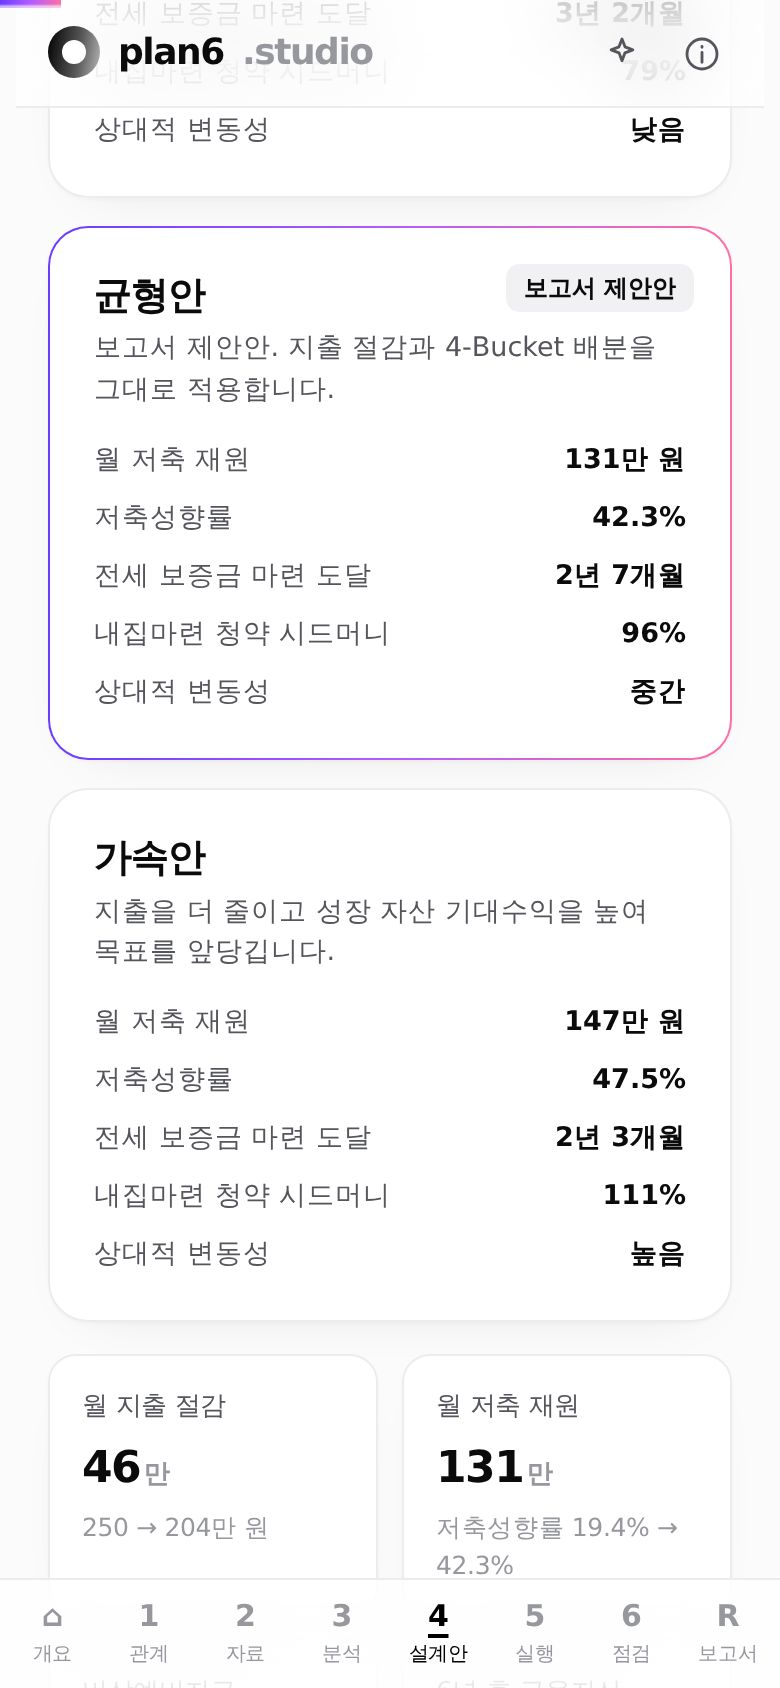
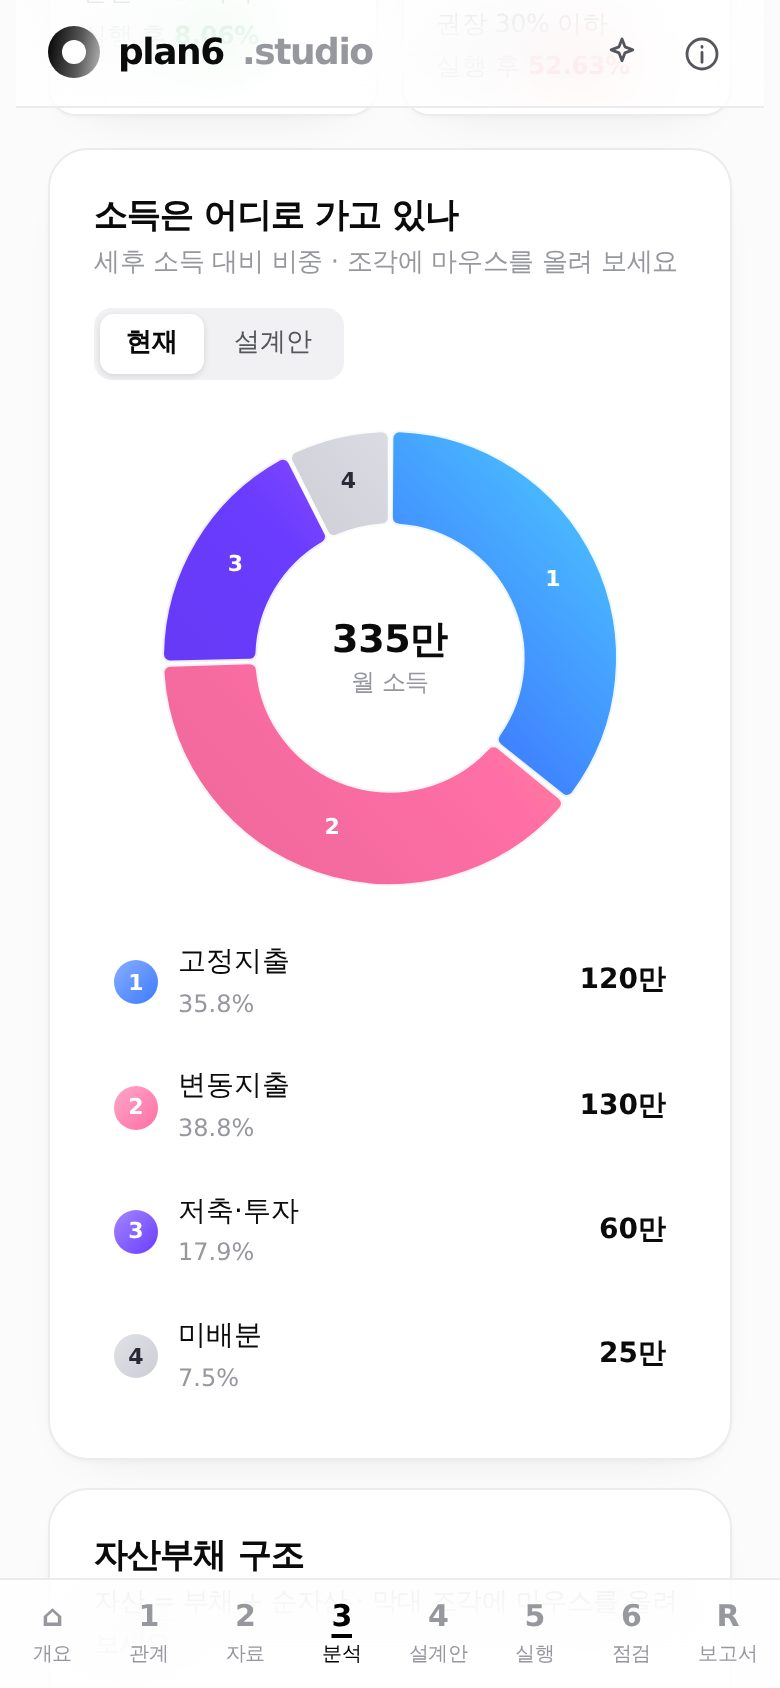
Solid legend swatches; refined hero mockup with browser chrome, sheen and phone island
Claude-Session: https://claude.ai/code/session_01Bv7YA2FHPYNtYdmzqAHzBM

diff --git a/index.html b/index.html
@@ -734,6 +734,30 @@ input[type=range]::-moz-range-thumb{border-color:#6a3cff}
 .vhead.banner.rv.shown{transform:none}
 @media (prefers-reduced-motion:reduce){.rv{opacity:1!important;transform:none!important;transition:none}}
 
+/* ===== v7: refined hero mockup (browser chrome, glass sheen, fade-out, phone with island) ===== */
+.hx-device{left:6%;right:6%;padding:0;border-radius:16px;background:#0e0e11;border:1px solid rgba(255,255,255,.14);overflow:hidden;-webkit-mask:linear-gradient(#000 62%,transparent 98%);mask:linear-gradient(#000 62%,transparent 98%);box-shadow:0 0 0 6px rgba(255,255,255,.03),0 -24px 90px -10px rgba(120,80,255,.40),0 50px 100px -30px rgba(0,0,0,.9)}
+.hx-device:before{display:none}
+.hx-device:after{content:"";position:absolute;inset:0;pointer-events:none;background:linear-gradient(115deg,rgba(255,255,255,.10) 0%,rgba(255,255,255,0) 28%,rgba(255,255,255,0) 70%,rgba(255,255,255,.04) 100%)}
+.hx-bar{display:flex;align-items:center;gap:7px;height:34px;padding:0 14px;background:linear-gradient(#1a1a1e,#121215);border-bottom:1px solid rgba(255,255,255,.07);position:relative}
+.hx-bar i{width:10px;height:10px;border-radius:50%;background:#3a3a40}
+.hx-bar span{position:absolute;left:50%;transform:translateX(-50%);display:flex;align-items:center;gap:6px;font-size:11px;color:rgba(255,255,255,.55);background:rgba(255,255,255,.06);border:1px solid rgba(255,255,255,.06);padding:3px 14px;border-radius:7px;white-space:nowrap}
+.hx-bar svg{width:11px;height:11px}
+.hx-screen{position:relative}
+.hx-screen img{display:block;width:100%;border-radius:0}
+.hx-phone{padding:7px;border-radius:30px;background:linear-gradient(145deg,#2a2a30,#0b0b0d);border:1px solid rgba(255,255,255,.18);box-shadow:inset 0 0 0 1.5px #000,0 0 0 1px rgba(0,0,0,.6),0 40px 80px -20px rgba(0,0,0,.9),0 0 60px -10px rgba(178,92,255,.35);overflow:hidden}
+.hx-phone img{border-radius:23px}
+.hx-phone .island{position:absolute;top:13px;left:50%;transform:translateX(-50%);width:30%;height:13px;border-radius:99px;background:#000;z-index:2}
+.hx-phone:after{content:"";position:absolute;inset:7px;border-radius:23px;pointer-events:none;background:linear-gradient(120deg,rgba(255,255,255,.14),rgba(255,255,255,0) 35%)}
+.fchip{flex-direction:row;align-items:center;gap:10px;padding:10px 14px 10px 10px;border-radius:16px;background:rgba(14,14,17,.62);border:1px solid rgba(255,255,255,.12);backdrop-filter:blur(18px) saturate(180%);-webkit-backdrop-filter:blur(18px) saturate(180%);box-shadow:inset 0 1px 0 rgba(255,255,255,.08),0 24px 50px -18px rgba(0,0,0,.85)}
+.fchip>div{display:flex;flex-direction:column}
+.fchip .fi{width:32px;height:32px;border-radius:10px;display:grid;place-items:center;font-size:15px;font-weight:800;color:#fff;background:linear-gradient(135deg,#6a3cff,#ff6fa5);box-shadow:0 6px 16px -6px rgba(106,60,255,.8);flex:none}
+.fchip small{font-size:11px;letter-spacing:.01em}
+.fchip b{font-size:16px}
+.fchip.f1{left:1%;top:34%}
+.fchip.f2{left:auto;right:17%;top:3%}
+.fchip.f3{left:9%;top:66%}
+@media (max-width:600px){.fchip .fi{width:26px;height:26px;font-size:12px;border-radius:8px}.fchip b{font-size:13px}.hx-bar{height:24px}.hx-bar span{display:none}.hx-bar i{width:7px;height:7px}.hx-phone{border-radius:20px;padding:4px}.hx-phone img{border-radius:16px}.hx-phone .island{top:8px;height:8px}}
+
 @media print{
   @page{size:A4;margin:14mm 12mm}
   .side,.top,.btab,.fab,.drawer,.toast,.modal-bg,.noprint,.foot{display:none!important}
@@ -804,11 +828,11 @@ input[type=range]::-moz-range-thumb{border-color:#6a3cff}
     </div>
     <div class="hx-vis" id="hxVis" aria-hidden="true">
       <div class="hx-stage" id="hxStage">
-        <div class="hx-device"><img src="assets/shot-desk.jpg" alt="" onerror="this.outerHTML='&lt;div class=&quot;ph&quot;&gt;&lt;/div&gt;'"></div>
-        <div class="hx-phone"><img src="assets/shot-mob.jpg" alt="" onerror="this.parentNode.style.display='none'"></div>
-        <div class="fchip f1"><small>월 저축</small><b id="fc1"></b></div>
-        <div class="fchip f2"><small>비상예비자금</small><b id="fc2"></b></div>
-        <div class="fchip f3"><small>6년 후 금융자산</small><b id="fc3"></b></div>
+        <div class="hx-device"><div class="hx-bar"><i></i><i></i><i></i><span><svg viewBox="0 0 24 24" fill="none" stroke="currentColor" stroke-width="2"><rect x="5" y="11" width="14" height="10" rx="2"/><path d="M8 11V8a4 4 0 018 0v3"/></svg>afpk-finance-studio.github.io</span></div><div class="hx-screen"><img src="assets/shot-desk.jpg" alt="" onerror="this.outerHTML='&lt;div class=&quot;ph&quot;&gt;&lt;/div&gt;'"></div></div>
+        <div class="hx-phone"><span class="island"></span><img src="assets/shot-mob.jpg" alt="" onerror="this.parentNode.style.display='none'"></div>
+        <div class="fchip f1"><span class="fi">₩</span><div><small>월 저축</small><b id="fc1"></b></div></div>
+        <div class="fchip f2"><span class="fi">◎</span><div><small>비상예비자금</small><b id="fc2"></b></div></div>
+        <div class="fchip f3"><span class="fi">↗</span><div><small>6년 후 금융자산</small><b id="fc3"></b></div></div>
       </div>
     </div>
   </div>
@@ -1216,7 +1240,13 @@ const mlabel=m=>m==null?"-":m===Infinity?"기간 내 미달":m===0?"즉시":m<12
 
 /* ---------- charts ---------- */
 const charts={};
-function chart(id,cfg){if(typeof Chart==="undefined"){const el=document.getElementById(id);if(el&&!el.dataset.fb){el.dataset.fb=1;el.parentElement.insertAdjacentHTML("beforeend",'<p class="note">그래프 라이브러리를 불러오지 못했습니다. 인터넷 연결을 확인하세요.</p>')}return}
+const swatch=x=>typeof x==="string"?x:(x&&x._c)||null;
+const okC=c=>c&&!/^(#fff|#ffffff|rgba\(255,\s*255,\s*255)/i.test(c);
+function dsColor(ds,i){if(!ds)return "#999";const cands=[ds.type==="line"&&typeof ds.pointBorderColor==="string"&&ds.pointBorderWidth>=3?ds.pointBorderColor:null,ds._base&&ds._base[i],Array.isArray(ds.backgroundColor)?ds.backgroundColor[i]:null,ds.fill===false||ds.type==="line"&&!ds.fill?swatch(ds.borderColor):null,swatch(ds.backgroundColor),swatch(ds.borderColor)];for(const c of cands){const v=swatch(c);if(okC(v)&&!/rgba\(.*,\s*0?\.[0-3]\d*\)$/.test(v))return v}for(const c of cands){const v=swatch(c);if(okC(v))return v}return "#999"}
+function solidSw(cfg){const o=cfg.options=cfg.options||{},p=o.plugins=o.plugins||{};const lg=p.legend;
+  if(lg&&lg.display!==false){lg.labels=Object.assign({},lg.labels,{usePointStyle:true,pointStyle:"rectRounded",boxWidth:10,boxHeight:10,generateLabels:ch=>Chart.defaults.plugins.legend.labels.generateLabels(ch).map(l=>{const ds=ch.data.datasets[l.datasetIndex];const c=dsColor(ds,l.index);return Object.assign(l,{fillStyle:c,strokeStyle:c,lineWidth:0,pointStyle:"rectRounded",lineDash:[]})})})}
+  if(p.tooltip){p.tooltip.callbacks=Object.assign({},p.tooltip.callbacks,{labelColor:ctx=>{const c=dsColor(ctx.dataset,ctx.dataIndex);return {borderColor:c,backgroundColor:c,borderWidth:0,borderRadius:3}},labelPointStyle:()=>({pointStyle:"rectRounded",rotation:0})})}}
+function chart(id,cfg){if(typeof Chart!=="undefined")solidSw(cfg);if(typeof Chart==="undefined"){const el=document.getElementById(id);if(el&&!el.dataset.fb){el.dataset.fb=1;el.parentElement.insertAdjacentHTML("beforeend",'<p class="note">그래프 라이브러리를 불러오지 못했습니다. 인터넷 연결을 확인하세요.</p>')}return}
   const cv=document.getElementById(id);
   if(waiting[id]){waiting[id]=cfg;return}
   if(charts[id]){charts[id].data=cfg.data;charts[id].options=cfg.options;charts[id].update(cv.offsetParent?undefined:"none");return}
@@ -1235,10 +1265,10 @@ const mixW=(h,a)=>{h=String(h).replace("#","");if(!/^[0-9a-f]{6}$/i.test(h))retu
 const mixK=(h,a)=>{h=String(h).replace("#","");if(!/^[0-9a-f]{6}$/i.test(h))return h;const v=parseInt(h,16),f=x=>Math.round(x*(1-a));return `rgb(${f(v>>16&255)},${f(v>>8&255)},${f(v&255)})`};
 const PAL2={"#6a3cff":"#d46bff","#b25cff":"#ff7ab8","#ff6fa5":"#ffb37a","#3e7bff":"#4fd6ff","#cdced6":"#eeeef3","#2d2d35":"#6a6a78","#15c39a":"#9be86a"};const p2=cl=>PAL2[String(cl).toLowerCase()]||mixW(cl,.35);
 const segFill=cols=>ctx=>{const cl=cols[ctx.dataIndex%cols.length],ar=ctx.chart.chartArea;if(!ar)return cl;const g=ctx.chart.ctx.createLinearGradient(ar.left,ar.bottom,ar.right,ar.top);g.addColorStop(0,mixK(cl,.08));g.addColorStop(.5,cl);g.addColorStop(1,p2(cl));return g};
-const barFill=cl=>grad(p2(cl),mixK(cl,.05));
+const barFill=cl=>{const f=grad(p2(cl),mixK(cl,.05));f._c=cl;return f};
 const hexA=(h,a)=>{h=String(h).replace("#","");if(h.length===3)h=h.split("").map(x=>x+x).join("");const v=parseInt(h,16);return `rgba(${v>>16&255},${v>>8&255},${v&255},${a})`};
 const lum=h=>{h=String(h).replace("#","");if(!/^[0-9a-f]{6}$/i.test(h))return 0;const v=parseInt(h,16);return ((v>>16&255)*.299+(v>>8&255)*.587+(v&255)*.114)/255};
-function grad(a,b,horiz){return ctx=>{const ch=ctx.chart,ar=ch.chartArea;if(!ar)return a;const g=horiz?ch.ctx.createLinearGradient(ar.left,0,ar.right,0):ch.ctx.createLinearGradient(0,ar.top,0,ar.bottom);g.addColorStop(0,a);g.addColorStop(1,b);return g}}
+function grad(a,b,horiz){return Object.assign(ctx=>{const ch=ctx.chart,ar=ch.chartArea;if(!ar)return a;const g=horiz?ch.ctx.createLinearGradient(ar.left,0,ar.right,0):ch.ctx.createLinearGradient(0,ar.top,0,ar.bottom);g.addColorStop(0,a);g.addColorStop(1,b);return g},{_c:a})}
 const GRAY=["#dedee6","rgba(222,222,230,.18)"],VIO=["#ff7ab8","#6a3cff"];
 const GLOW={id:"glow",beforeDatasetDraw(ch,a){if(ch.config.type!=="line")return;const c=ch.ctx;c.save();c.shadowColor="rgba(106,60,255,.35)";c.shadowBlur=14;c.shadowOffsetY=6},afterDatasetDraw(ch){if(ch.config.type!=="line")return;ch.ctx.restore()}};
 const NUMS={id:"nums",afterDatasetsDraw(ch){const ds=ch.data.datasets[0];if(!ds)return;const tot=ds.data.reduce((a,b)=>a+(+b||0),0);if(!tot)return;const m=ch.getDatasetMeta(0),c=ch.ctx;c.save();c.font="700 11px "+css("--font");c.textAlign="center";c.textBaseline="middle";
